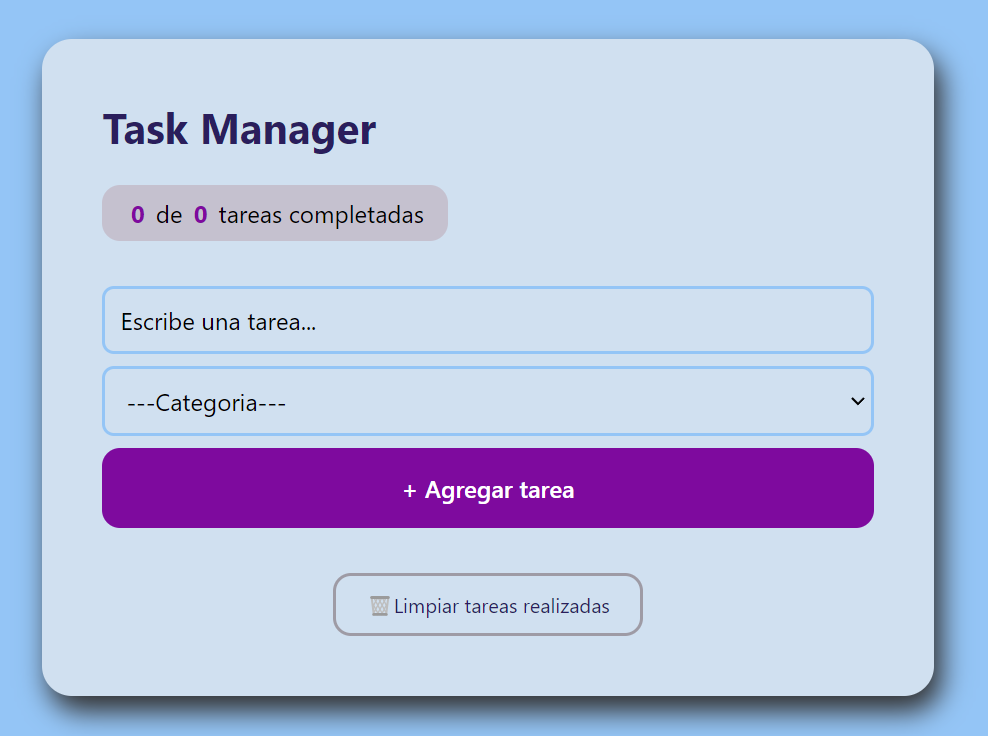
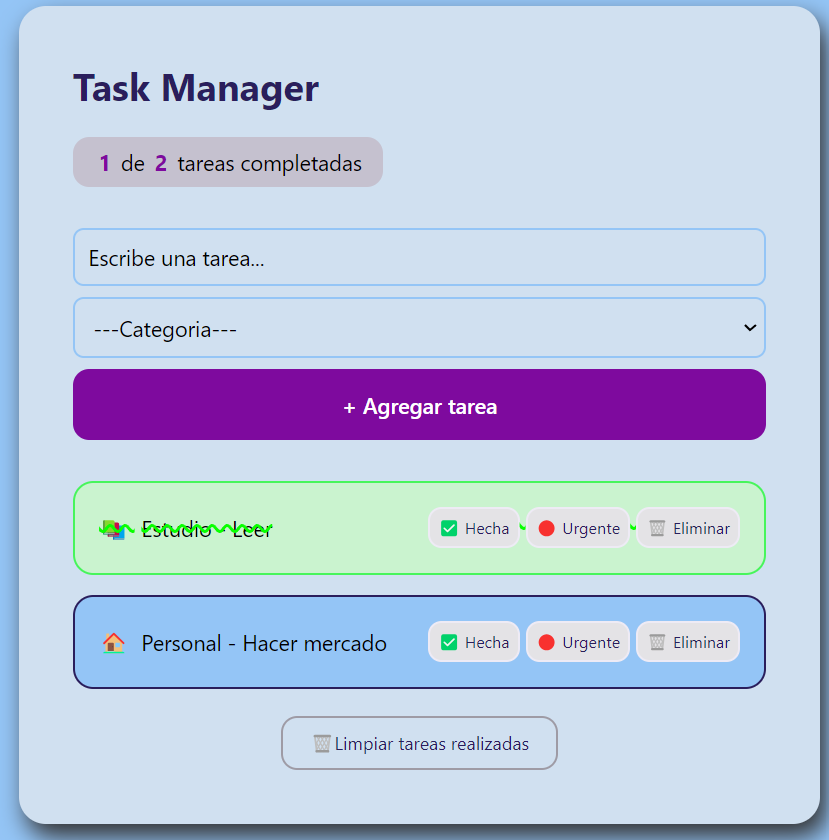
Sección proyectos, home responsive

diff --git a/css/home.css b/css/home.css
@@ -10,19 +10,41 @@
     border-bottom-right-radius: 15px;
 }
 
+.inicio-presentacion::before {
+    content: '';
+    position: absolute;
+    top: -80px;
+    left: -80px;
+    width: 420px;
+    height: 420px;
+    background: radial-gradient(circle, rgba(33, 173, 228, 0.12) 0%, transparent 70%);
+    pointer-events: none;
+}
+
+.inicio-presentacion::after {
+    content: '';
+    position: absolute;
+    bottom: -60px;
+    right: -60px;
+    width: 340px;
+    height: 340px;
+    background: radial-gradient(circle, rgba(111, 177, 228, 0.08) 0%, transparent 70%);
+    pointer-events: none;
+}
+
 .contenedor-foto {
     display: flex;
     align-items: center;
     gap: 64px;
     max-width: 1200px;
+    width: 100%;
     margin: 0 auto;
 }
 
 .imagen-perfil {
-    
-    width: 100%;
-    height: 100%;
-    object-fit: cover;
+
+    flex-shrink: 0;
+    position: relative;
 }
 
 .circulo-brillo {
@@ -39,6 +61,23 @@
     width: 100%;
     height: 100%;
     object-fit: cover;
+}
+
+.badge-role {
+    position: absolute;
+    bottom: -14px;
+    left: 50%;
+    transform: translateX(-50%);
+    background: var(--navbar);
+    border: 1px solid rgba(33, 173, 228, 0.4);
+    font-size: 11px;
+    font-weight: 500;
+    letter-spacing: 0.1em;
+    text-transform: uppercase;
+    padding: 5px 14px;
+    border-radius: 20px;
+    white-space: nowrap;
+    backdrop-filter: blur(4px);
 }
 
 .contenedor-contenido h3 {
@@ -132,4 +171,47 @@
 .email:hover {
     color: var(--background-oscuro);
     background-color: var(--azul-primario);
+}
+
+@media (max-width: 768px) {
+    .contenedor-foto {
+        flex-direction: column;
+        text-align: center;
+        gap: 2.5rem;
+    }
+
+
+    .rolAle {
+        justify-content: center;
+    }
+
+    .rolAle::before {
+        display: none;
+    }
+
+    #descripcion {
+        margin-left: auto;
+        margin-right: auto;
+    }
+
+    .iconos-redes {
+        justify-content: center;
+    }
+
+    .botones-contenido {
+        justify-content: center;
+    }
+}
+
+@media (max-width: 420px) {
+    .botones-contenido {
+        flex-direction: column;
+        align-items: stretch;
+    }
+
+    .btn-verProyectos,
+    .email {
+        text-align: center;
+        justify-content: center;
+    }
 }

diff --git a/componentes/projects.html b/componentes/projects.html
@@ -9,61 +9,57 @@
                 </div>
                 <div class="info-proyecto">
                     <h3>E-commerce Historias de Café</h3>
-                    <p>Desarrollo de una plataforma e-commerce para la comercialización de café, enfocada en conectar caficultores directamente con consumidores. Participé en el desarrollo colaborativo de funcionalidades como catálogo de productos, gestión de usuarios y diseño responsivo.</p>
+                    <p>Desarrollo colaborativo de plataforma e-commerce para comercialización de café, implementando catálogo de productos, gestión de usuarios y diseño responsivo.</p>
                     <div class="tags-proyecto">
                         <span>HTML</span>
                         <span>CSS</span>
                         <span>JavaScript</span>
                         <span>Java</span>
                         <span>Srping Boot</span>
-                        <span>Relational DB</span>
+                        <span>PostgreSQL</span>
                     </div>
                     <div class="botones-proyecto">
                         <a href="https://github.com/andresdiazf/e_commerce_historias_de_cafe" target="_blank" class="btn-code"><i class="fa-brands fa-github"></i> Code</a>
-                        <a href=" https://proyecto-historiasdecafe-frontend-vue-1.onrender.com/catalogo" class="btn-demo" target="_blank"><i class="fa-solid fa-rocket"></i> Demo</a>
+                        <a href="https://e-commerce-historias-de-cafe.onrender.com/" class="btn-demo" target="_blank"><i class="fa-solid fa-rocket"></i> Demo</a>
                     </div>
                 </div>
             </div>
             
             <div class="tarjeta-proyecto">
                 <div class="imagen-proyecto">
-                    <img src="./assets/Ecommerfe.png" alt="Ecommerce historias de café">
+                    <img src="./assets/portafolio.png" alt="Ecommerce historias de café">
                 </div>
                 <div class="info-proyecto">
-                    <h3>E-commerce Historias de Café</h3>
-                    <p>Desarrollo de una plataforma e-commerce para la comercialización de café, enfocada en conectar caficultores directamente con consumidores. Participé en el desarrollo colaborativo de funcionalidades como catálogo de productos, gestión de usuarios y diseño responsivo.</p>
+                    <h3>Portafolio Personal Alejandra</h3>
+                    <p>Desarrollo de portafolio web con HTML, CSS y JavaScript para mostrar proyectos, tecnologías y experiencia profesional.</p>
                     <div class="tags-proyecto">
                         <span>HTML</span>
                         <span>CSS</span>
                         <span>JavaScript</span>
-                        <span>Java</span>
-                        <span>Srping Boot</span>
-                        <span>Relational DB</span>
+                
                     </div>
                     <div class="botones-proyecto">
-                        <a href="https://github.com/andresdiazf/e_commerce_historias_de_cafe" class="btn-code"><i class="fa-brands fa-github"></i> Code</a>
-                        <a href="#" class="btn-demo"><i class="fa-solid fa-rocket"></i> Demo</a>
+                        <a href="https://github.com/Malejandrapin/Alejandra-Pinilla-Portafolio" target="_blank" class="btn-code"><i class="fa-brands fa-github"></i> Code</a>
+                        <a href="https://malejandrapin.github.io/Alejandra-Pinilla-Portafolio/" target="_blank" class="btn-demo"><i class="fa-solid fa-rocket"></i> Demo</a>
                     </div>
                 </div>
             </div>
             <div class="tarjeta-proyecto">
                 <div class="imagen-proyecto">
-                    <img src="./assets/Ecommerfe.png" alt="Ecommerce historias de café">
+                    <img src="./assets/task-manager.png" alt="Ecommerce historias de café">
                 </div>
                 <div class="info-proyecto">
-                    <h3>E-commerce Historias de Café</h3>
-                    <p>Desarrollo de una plataforma e-commerce para la comercialización de café, enfocada en conectar caficultores directamente con consumidores. Participé en el desarrollo colaborativo de funcionalidades como catálogo de productos, gestión de usuarios y diseño responsivo.</p>
+                    <h3>Aplicación de Gestión de Tareas</h3>
+                    <p>Desarrollo de web para gestión de tareas, permite registrar tarea por categoría, marcar como hecha, urgente o eliminar. </p>
                     <div class="tags-proyecto">
                         <span>HTML</span>
                         <span>CSS</span>
                         <span>JavaScript</span>
-                        <span>Java</span>
-                        <span>Srping Boot</span>
-                        <span>Relational DB</span>
+                     
                     </div>
                     <div class="botones-proyecto">
-                        <a href="https://github.com/andresdiazf/e_commerce_historias_de_cafe" class="btn-code"><i class="fa-brands fa-github"></i> Code</a>
-                        <a href="#" class="btn-demo"><i class="fa-solid fa-rocket"></i> Demo</a>
+                        <a href="https://github.com/Malejandrapin/task-manager-Maira-Pinilla" target="_blank" class="btn-code"><i class="fa-brands fa-github"></i> Code</a>
+                        <a href="https://malejandrapin.github.io/task-manager-Maira-Pinilla/" target="_blank" class="btn-demo"><i class="fa-solid fa-rocket"></i> Demo</a>
                     </div>
                 </div>
             </div>

diff --git a/componentes/experience.html b/componentes/experience.html
@@ -13,11 +13,7 @@
                         <span class="fecha-exp">Febrero 2026 - Actualmente</span>
                     </div>
                     <p class="descripcion-exp">
-                        Desarrollo de e commerce centrado en la conexión directa entre caficultores y
-                        consumidores, donde se comercializan productos de alta calidad, promoviendo la
-                        sostenibilidad y el comercio justo en la industria del café. Utilizando tecnologías
-                        modernas como HTML, CSS, JavaScript, Bootstrap, Java con Spring Boot y bases de datos
-                        relacionales. Bajo el marco de trabajo Scrum.
+                       Desarrollo de plataforma e-commerce para comercialización de café usando HTML, CSS, JavaScript, Bootstrap, Java Spring Boot y bases de datos relacionales bajo metodología Scrum.
                     </p>
                     <div class="tecnologias-exp">
                         <img src="https://cdn.jsdelivr.net/gh/devicons/devicon@latest/icons/html5/html5-original.svg"
@@ -46,12 +42,7 @@
                         <span class="fecha-exp">Julio 2024 - Noviembre 2024</span>
                     </div>
                     <p class="descripcion-exp">
-                        Coordiné la comunicación entre docentes, mentores y estudiantes para asegurar el
-                        cumplimiento de objetivos académicos.
-                        Gestioné y documenté contenidos digitales garantizando su correcta publicación y
-                        trazabilidad.
-                        Brindé soporte técnico y seguimiento a estudiantes, identificando riesgos y proponiendo
-                        mejoras en el proceso formativo.
+                      Coordinar comunicación entre docentes y estudiantes, gestión de contenidos digitales y soporte técnico con seguimiento al proceso formativo.
                     </p>
                     <div class="tecnologias-exp">
                         <img src="https://cdn.simpleicons.org/gmail/EA4335" alt="gmail">
@@ -74,10 +65,7 @@
                         <span class="fecha-exp">Febrero 2023 - Febrero 2024</span>
                     </div>
                     <p class="descripcion-exp">
-                        Soporte y gestión de incidencias usando CA Service Desk y monitoreo con Dynatrace para
-                        garantizar continuidad operativa.
-                        Análisis y validación de datos mediante SQL Server para soporte a procesos de negocio.
-                        Colaboración en equipo en diagnóstico, documentación y mejora continua de aplicaciones.
+                        Soporte y gestión de incidencias con CA Service Desk y Dynatrace, validación de datos en SQL Server y colaboración en mejora continua de aplicaciones.
                     </p>
                     <div class="tecnologias-exp">
                         <img src="https://cdn.jsdelivr.net/gh/devicons/devicon@latest/icons/postman/postman-original.svg"

diff --git a/css/projects.css b/css/projects.css
@@ -33,7 +33,7 @@
 .imagen-proyecto img {
     width: 100%;
     height: 100%;
-    object-fit:fill;
+    object-fit:contain;
 }
 
 .info-proyecto {
@@ -54,7 +54,7 @@
     margin-bottom: 20px;
 }
 
-/* Etiquetas de tecnologías */
+
 .tags-proyecto {
     display: flex;
     gap: 10px;
@@ -63,7 +63,7 @@
 }
 
 .tags-proyecto span {
-    background-color: #1e293b;
+    background-color: var(--background-oscuro);
     color: var(--azul-primario);
     padding: 5px 12px;
     border-radius: 20px;
@@ -72,7 +72,7 @@
     border: 1px solid rgba(111, 177, 228, 0.2);
 }
 
-/* Botones de la tarjeta */
+
 .botones-proyecto {
     display: flex;
     gap: 15px;
@@ -91,7 +91,7 @@
 }
 
 .btn-code {
-    background-color: #334155;
+    background-color: var(--navbar);
     color: var(--blanco);
 }
 
@@ -109,7 +109,7 @@
     background-color: var(--azul-primario);
 }
 
-/* Ajuste para tablets y móviles */
+
 @media (max-width: 992px) {
     .grid-proyectos {
         grid-template-columns: repeat(2, 1fr);

diff --git a/componentes/navbar.html b/componentes/navbar.html
@@ -2,13 +2,13 @@
     <div class="logo"> <img id="logoAlejandra" src="./assets/logoAP.png" alt="logoAlejandra"></div>
     <ul class="links-nav">
         <li><a href="#home">INICIO </a> </li>
-        <li><a href="#educacion">EDUCACIÓN </a> </li>
-        <li><a href="#experiencia">EXPERIENCIA </a> </li>
         <li><a href="#proyectos">PROYECTOS </a> </li>
         <li><a href="#habilities">HABILIDADES </a> </li>
+        <li><a href="#educacion">EDUCACIÓN </a> </li>
+        <li><a href="#experiencia">EXPERIENCIA </a> </li>
         <li><a href="#aboutme">SOBRE MI </a> </li>
     </ul>
-    <a href="https://drive.google.com/file/d/1ZeC8Z3ZEZMtRNVyUpwkIN9khpYQ_X3N0/view?usp=sharing" target="_blank">
+    <a href="https://drive.google.com/file/d/1YI0UHWXyZC9L8no45kYtlSP6DUpc_hU0/view?usp=sharing" target="_blank">
         <button id="btn-cv">Descargar CV <i class="fa-solid fa-download"></i> </button>
     </a>
 </nav>

diff --git a/css/navbar.css b/css/navbar.css
@@ -17,7 +17,7 @@
 
 /* Se ajusta la imagen que coloque como logo  */
 #logoAlejandra {
-    height: 80px;
+    height: 120px;
     width: auto;
 }
 
@@ -61,6 +61,6 @@
 
 #btn-cv:hover {
     color: var(--rosado-btn-cv);
-    background-color: var(--parrafo);
+    background-color: var(--blanco);
 }
 

diff --git a/index.html b/index.html
@@ -24,12 +24,12 @@
     <main>
         seccion de inicio
         <div id="home"></div>
+        <!-- seccion de proyectos -->
+        <div id="projects"></div>
         <!-- seccion de educacion -->
         <div id="education"></div>
         <!-- seccion de experiencia -->
         <div id="experiencie"></div>
-        <!-- seccion de proyectos -->
-        <div id="projects"></div>
     </main>
 
 

diff --git a/componentes/home.html b/componentes/home.html
@@ -5,10 +5,11 @@
             <div class="circulo-brillo">
                 <img id="perfilAle" src="./assets/PerfilAle.png" alt="Alejandra Pinilla">
             </div>
+             <span class="badge-role">Full Stack Dev</span>
         </div>
 
         <div class="contenedor-contenido">
-            <h3>Hola, soy👩💻</h3>
+            <h3>Hola, soy</h3>
             <h1 class="nombreAle">Alejandra <span>Pinilla</span></h1>
             <h2 class="rolAle"> Full Stack Developer </h2>
             <p id="descripcion">Ingeniera de Sistemas y desarrolladora enfocada en crear experiencias